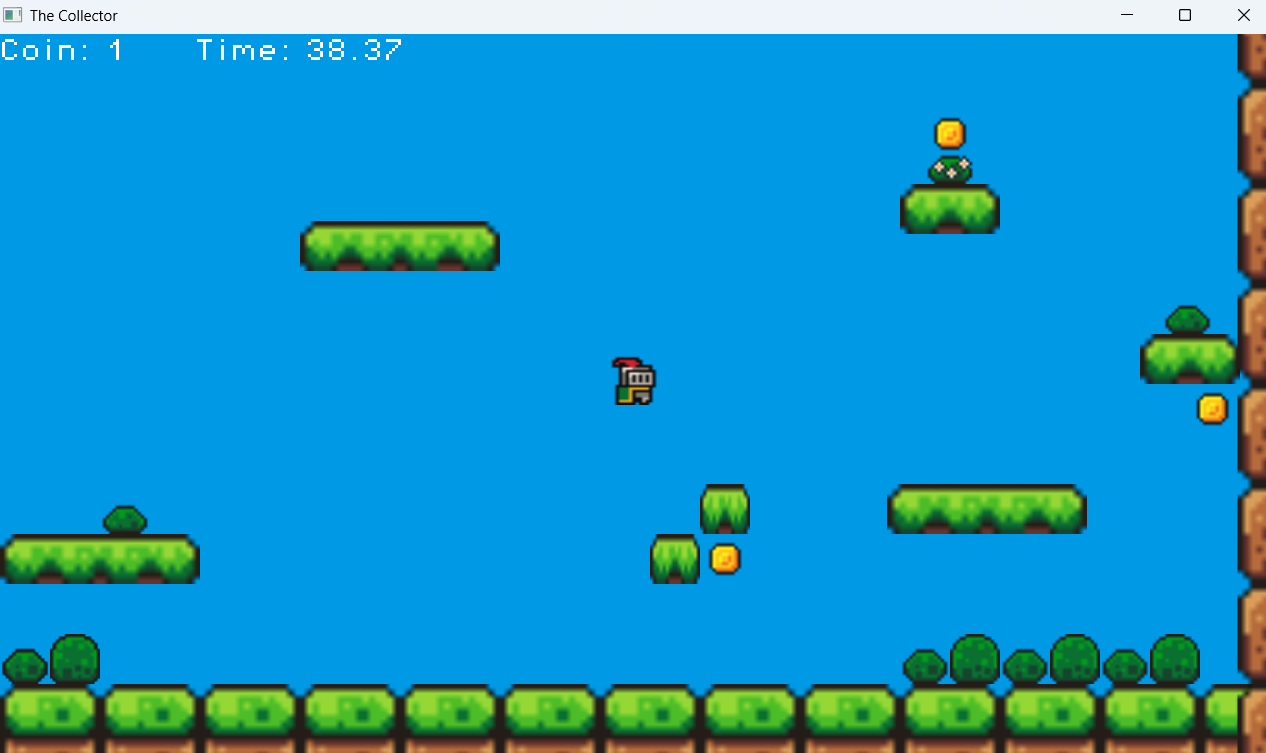
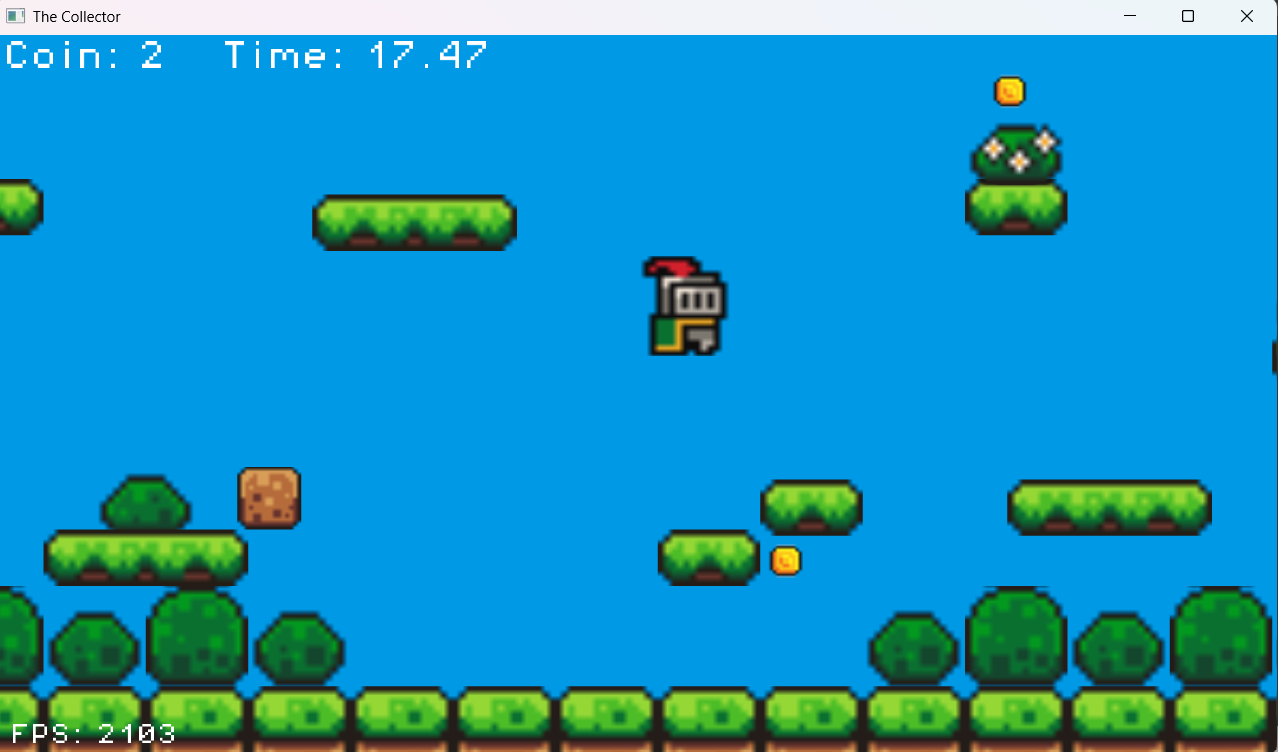
Update Collector

diff --git a/TheCollector/PlatformController.h b/TheCollector/PlatformController.h
@@ -16,43 +16,15 @@
 
 const glm::vec2 PLATFORM_SIZE(32.0f, 9.0f);
 
-const glm::mat4x2 GROUND1_TEXTCOOR = glm::mat4x2{
-	0.01f, 0.01f,
-	0.99f, 0.01f,
-	0.99f, 0.49f,
-	0.01f, 0.49f
-};
-const glm::mat4x2 GROUND2_TEXTCOOR = glm::mat4x2{
-	0.01f, 0.51f,
-	0.99f, 0.51f,
-	0.99f, 0.99f,
-	0.01f, 0.99f
-};
-
-const glm::mat4x2 SMALL_PLATFORM_TEXTCOOR = glm::mat4x2{
-	0.0f, 0.0f,
-	0.33f, 0.0f,
-	0.33f, 1.0f,
-	0.0f, 1.0f
-};
-
-const glm::mat4x2 LARGE_PLATFORM_TEXTCOOR = glm::mat4x2{
-	0.33f, 0.0f,
-	1.0f, 0.0f,
-	1.0f, 1.0f,
-	0.33f, 1.0f
-};
-
 class PlatformController : public Learning2DEngine::System::Component
 {
     friend class Learning2DEngine::System::GameObject;
 protected:
 	std::string textureId;
-	glm::mat4x2 uvMatrix;
 	int layer;
 
-	PlatformController(Learning2DEngine::System::GameObject* gameObject, const std::string& textureId, const glm::mat4x2& uvMatrix, int layer = 0)
-		: Learning2DEngine::System::Component(gameObject), textureId(textureId), uvMatrix(uvMatrix), layer(layer)
+	PlatformController(Learning2DEngine::System::GameObject* gameObject, const std::string& textureId, int layer = 0)
+		: Learning2DEngine::System::Component(gameObject), textureId(textureId), layer(layer)
 	{
 	}
 
@@ -63,7 +35,6 @@ protected:
 			Learning2DEngine::System::ResourceManager::GetInstance().GetTexture(textureId),
 			layer
 		);
-		render->data.uvMatrix = uvMatrix;
 
 		gameObject->AddComponent<Learning2DEngine::Physics::BoxColliderComponent>(
 			gameObject->transform.GetScale(),
@@ -83,13 +54,12 @@ public:
 	static PlatformController* Create(
 		glm::vec2 position,
 		const std::string& textureId,
-		const glm::mat4x2& uvMatrix,
 		glm::vec2 size = PLATFORM_SIZE,
 		int layer = 0)
 	{
 		auto platform = Learning2DEngine::System::GameObjectManager::GetInstance().CreateGameObject(
 			Learning2DEngine::System::Transform(position, size)
 		);
-		return platform->AddComponent<PlatformController>(textureId, uvMatrix, layer);
+		return platform->AddComponent<PlatformController>(textureId, layer);
 	}
 };

diff --git a/TheCollector/GameController.cpp b/TheCollector/GameController.cpp
@@ -7,15 +7,11 @@
 #include <Learning2DEngine/Render/RenderManager.h>
 #include <Learning2DEngine/Object/FpsShower.h>
 #include <Learning2DEngine/UI/TextBoxComponent.h>
+#include <Learning2DEngine/Editor/TiledMapLoader.h>
 #if L2DE_DEBUG
 #include <Learning2DEngine/DebugTool/DebugPosition.h>
 #endif
 
-#include <Learning2DEngine/Editor/TiledMapLoader.h>
-using namespace Learning2DEngine::Editor;
-
-#include "PlatformController.h"
-#include "BushController.h"
 #include "CameraController.h"
 
 using namespace Learning2DEngine::System;
@@ -23,6 +19,7 @@ using namespace Learning2DEngine::Render;
 using namespace Learning2DEngine::Object;
 using namespace Learning2DEngine::UI;
 using namespace Learning2DEngine::DebugTool;
+using namespace Learning2DEngine::Editor;
 using namespace irrklang;
 
 GameController::GameController(GameObject* gameObject)
@@ -93,10 +90,10 @@ void GameController::InitDynamicEnvironment()
     //Moving Platform
     movingPlatforms.reserve(2);
     movingPlatforms.push_back(
-        MovingPlatformController::Create(glm::vec2(90.0f, 65.0f), glm::vec2(90.0f, 120.0f), "Platforms", LARGE_PLATFORM_TEXTCOOR)
+        MovingPlatformController::Create(glm::vec2(90.0f, 65.0f), glm::vec2(90.0f, 120.0f), "Platform2")
     );
     movingPlatforms.push_back(
-        MovingPlatformController::Create(glm::vec2(176.0f, 111.0f), glm::vec2(200.0f, 111.0f), "Platforms", LARGE_PLATFORM_TEXTCOOR)
+        MovingPlatformController::Create(glm::vec2(176.0f, 111.0f), glm::vec2(200.0f, 111.0f), "Platform2")
     );
 
     //Coin
@@ -243,15 +240,13 @@ void GameController::InitTexts()
     );
 	endBox->SetPadding(1.0f);
 
-#if L2DE_DEBUG
-    auto fps = FpsShower::CreateFpsShowerObject(
+    FpsShower::CreateFpsShowerObject(
         Transform(
             glm::vec2(2.0f, Game::mainCamera.GetResolution().GetHeight() - 5),
             glm::vec2(0.15f, 0.15f)
         ),
         fontSizePair,
         99);
-#endif
 }
 
 void GameController::ShowMenu()

diff --git a/TheCollector/PlayerController.cpp b/TheCollector/PlayerController.cpp
@@ -36,6 +36,9 @@ void PlayerController::Init()
     UpdaterComponent::Init();
     BoxColliderComponent::Init();
 
+    auto& playerTexture = ResourceManager::GetInstance()
+        .LoadTextureFromFile(PLAYER_TEXTURE_ID, "Assets/Images/Knight.png", Texture2DSettings(true));
+
     gameObject->transform.SetScale(PLAYER_SIZE);
 
 #if L2DE_DEBUG
@@ -62,13 +65,13 @@ void PlayerController::Init()
         };
 		uvMatrix += PLAYER_ANIMATION_UV_OFFSET;
         rightIdleAnimation->Add(AnimationFrame{
-            &ResourceManager::GetInstance().GetTexture(PLAYER_TEXTURE_ID),
+            &playerTexture,
             uvMatrix,
             0.5f
         });
 
         leftIdleAnimation->Add(std::move(AnimationFrame{
-            &ResourceManager::GetInstance().GetTexture(PLAYER_TEXTURE_ID),
+            &playerTexture,
             Math::FlipByX(uvMatrix),
             0.5f
             }));
@@ -90,13 +93,13 @@ void PlayerController::Init()
             };
             uvMatrix += PLAYER_ANIMATION_UV_OFFSET;
             rightRunAnimation->Add(AnimationFrame{
-                &ResourceManager::GetInstance().GetTexture(PLAYER_TEXTURE_ID),
+                &playerTexture,
                 uvMatrix,
                 0.25f
                 });
 
             leftRunAnimation->Add(std::move(AnimationFrame{
-                &ResourceManager::GetInstance().GetTexture(PLAYER_TEXTURE_ID),
+                &playerTexture,
                 Math::FlipByX(uvMatrix),
                 0.25f
                 }));

diff --git a/TheCollector/TheCollector.cpp b/TheCollector/TheCollector.cpp
@@ -1,35 +1,14 @@
 #include "TheCollector.h"
 
-#include <Learning2DEngine/System/GameObject.h>
 #include <Learning2DEngine/System/GameObjectManager.h>
-#include <Learning2DEngine/System/ResourceManager.h>
-#include <Learning2DEngine/Physics/BoxColliderComponent.h>
-#include <Learning2DEngine/Physics/CircleColliderComponent.h>
 
 #include "GameController.h"
 
-using namespace Learning2DEngine::Render;
 using namespace Learning2DEngine::System;
-using namespace Learning2DEngine::Physics;
 
 void TheCollector::Init()
 {
     Game::Init();
-
-    auto& resourceManager = ResourceManager::GetInstance();
-
-    // Textures
-    Texture2DSettings basicSettings;
-    basicSettings.internalFormat = GL_RGBA;
-    basicSettings.imageFormat = GL_RGBA;
-    basicSettings.wrapS = GL_CLAMP_TO_EDGE;
-    basicSettings.wrapT = GL_CLAMP_TO_EDGE;
-
-    resourceManager.LoadTextureFromFile("Bushes", "Assets/Images/Bushes.png", basicSettings);
-    resourceManager.LoadTextureFromFile("Coin", "Assets/Images/Coin.png", basicSettings);
-    resourceManager.LoadTextureFromFile("Grounds", "Assets/Images/Grounds.png", basicSettings);
-    resourceManager.LoadTextureFromFile("Knight", "Assets/Images/Knight.png", basicSettings);
-    resourceManager.LoadTextureFromFile("Platforms", "Assets/Images/Platforms.png", basicSettings);
 
     // MSAA
     ActivateMSAA(4);

diff --git a/TheCollector/BoxController.h b/TheCollector/BoxController.h
@@ -19,6 +19,13 @@
 
 const glm::vec2 BOX_SIZE(10.0f, 10.0f);
 
+const glm::mat4x2 BOX_TEXTCOOR = glm::mat4x2{
+	0.0f, 0.51f,
+	1.0f, 0.51f,
+	1.0f, 1.0f,
+	0.0f, 1.0f
+};
+
 class BoxController : public Learning2DEngine::System::Component
 {
 	friend class Learning2DEngine::System::GameObject;
@@ -37,10 +44,10 @@ protected:
 	{
 		auto render = gameObject->AddComponent<Learning2DEngine::Render::SpriteRenderComponent>(
 			Learning2DEngine::Render::RendererMode::RENDER,
-			Learning2DEngine::System::ResourceManager::GetInstance().GetTexture("Grounds"),
+			Learning2DEngine::System::ResourceManager::GetInstance().GetTexture("Grounds"), //The Texture exits because of TiledMap
 			layer
 		);
-		render->data.uvMatrix = GROUND2_TEXTCOOR;
+		render->data.uvMatrix = BOX_TEXTCOOR;
 
 		rigidbody = gameObject->AddComponent<Learning2DEngine::Physics::Rigidbody>(glm::vec2(0.0f, 0.0f), true);
 		rigidbody->gravityMultiplier = 100.0f;

diff --git a/TheCollector/MovingPlatformController.cpp b/TheCollector/MovingPlatformController.cpp
@@ -40,11 +40,10 @@ MovingPlatformController* MovingPlatformController::Create(
 	glm::vec2 startPosition,
 	glm::vec2 endPosition,
 	const std::string& textureId,
-	const glm::mat4x2& uvMatrix,
 	float speed,
 	glm::vec2 size)
 {
-	auto platform = PlatformController::Create(startPosition, textureId, uvMatrix, size);
+	auto platform = PlatformController::Create(startPosition, textureId, size);
 
 	return platform->gameObject->AddComponent<MovingPlatformController>(endPosition, speed);
 }

diff --git a/TheCollector/MovingPlatformController.h b/TheCollector/MovingPlatformController.h
@@ -29,7 +29,6 @@ public:
 		glm::vec2 startPosition,
 		glm::vec2 endPosition,
 		const std::string& textureId,
-		const glm::mat4x2& uvMatrix,
 		float speed = 20.0f,
 		glm::vec2 size = PLATFORM_SIZE);
 };
